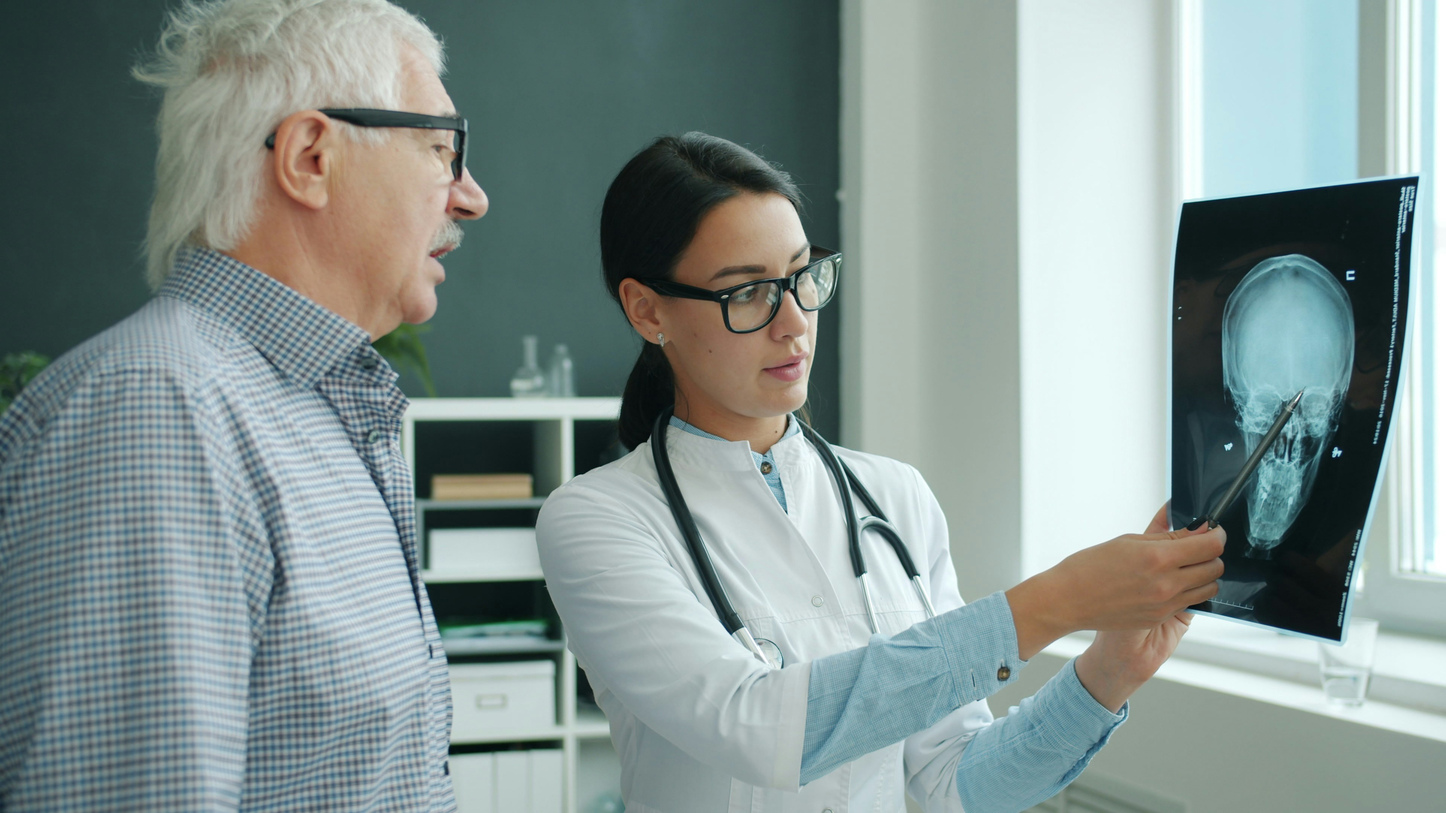
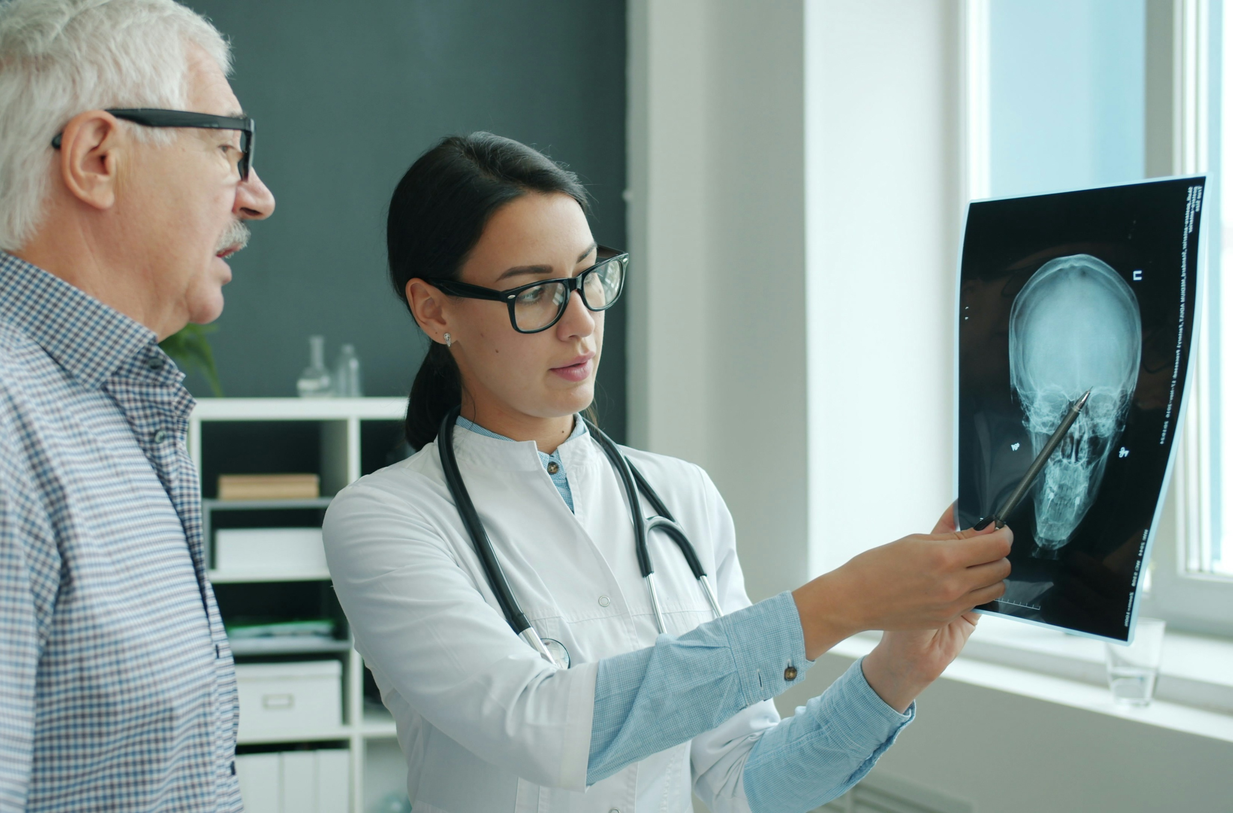
feat: add flow diagram to NewsMonitor article

diff --git a/articles/news-monitor.html b/articles/news-monitor.html
@@ -93,9 +93,8 @@
 
             <p>
                 Monitoring multiple news sources becomes expensive when every article is processed by an LLM.
-                <a class="hoverable-link" href="https://github.com/jcarterlab/NewsMonitor">
-                    NewsMonitor
-                </a> tackles this problem by using an LLM to decide which stories are worth analysing before 
+                <a class="hoverable-link" href="https://github.com/jcarterlab/NewsMonitor">NewsMonitor</a> 
+                tackles this problem by using an LLM to decide which stories are worth analysing before 
                 any expensive downstream processing takes place, reducing costs by roughly 80-90%. 
             </p>
 
@@ -130,6 +129,47 @@
 
 
         <br>
+
+
+        <script type="module">
+        import mermaid from "https://cdn.jsdelivr.net/npm/mermaid@10/dist/mermaid.esm.min.mjs";
+        mermaid.initialize({ startOnLoad: true });
+        </script>
+
+
+        <div class="mermaid">
+        flowchart TD
+
+        A["links.csv"]:::data  --> B["scrape_headlines"]
+        B --> C["deduplicate_headlines"]
+        C --> D["identify_target_headlines"]
+        D --> E["scrape_stories"]
+        E --> F["summarise_stories"]
+        F --> G["store_data"]
+        G --> H["email_summary (optional)"]
+
+        %% Example outputs
+        B1["Scraped headlines"]:::example
+        C1["Unique, new headlines"]:::example
+        D1["Indices of relevant headlines"]:::example
+        E1["Full texts for relevant stories"]:::example
+        F1["An LLM summary in markdown"]:::example
+        G1["SQLite tables"]:::example
+        H1["A formatted email in HTML"]:::example
+
+        B --> B1
+        C --> C1
+        D --> D1
+        E --> E1
+        F --> F1
+        G --> G1
+        H --> H1
+
+        %% Styles
+        classDef data fill:#e8f5e9,stroke:#43a047,color:#1b5e20,stroke-width:2px;
+        classDef step fill:#e3f2fd,stroke:#1e88e5,color:#0d47a1;
+        classDef example fill:#fff3e0,stroke:#fb8c00,color:#e65100,stroke-dasharray: 5 5;
+        </div>
 
 
         <br><br><br>

diff --git a/articles/expert-llm.html b/articles/expert-llm.html
@@ -92,7 +92,12 @@
             <p>---</p>
 
             <p>
-                
+                The problem with the claim that "expert" personas improve LLM performance is
+                that giving them any persona tends to produce longer answers. There is a natural tendency (among
+                humans and LLM judges alike) to assume that longer equals better, even if it doesn't.
+                <a class="hoverable-link" href="https://github.com/jcarterlab/llm-expert-persona-eval">llm-expert-persona-eval</a>
+                overcomes this bias by testing short-response extraction and classification tasks across a 
+                variety of domains.
             </p>
 
 
